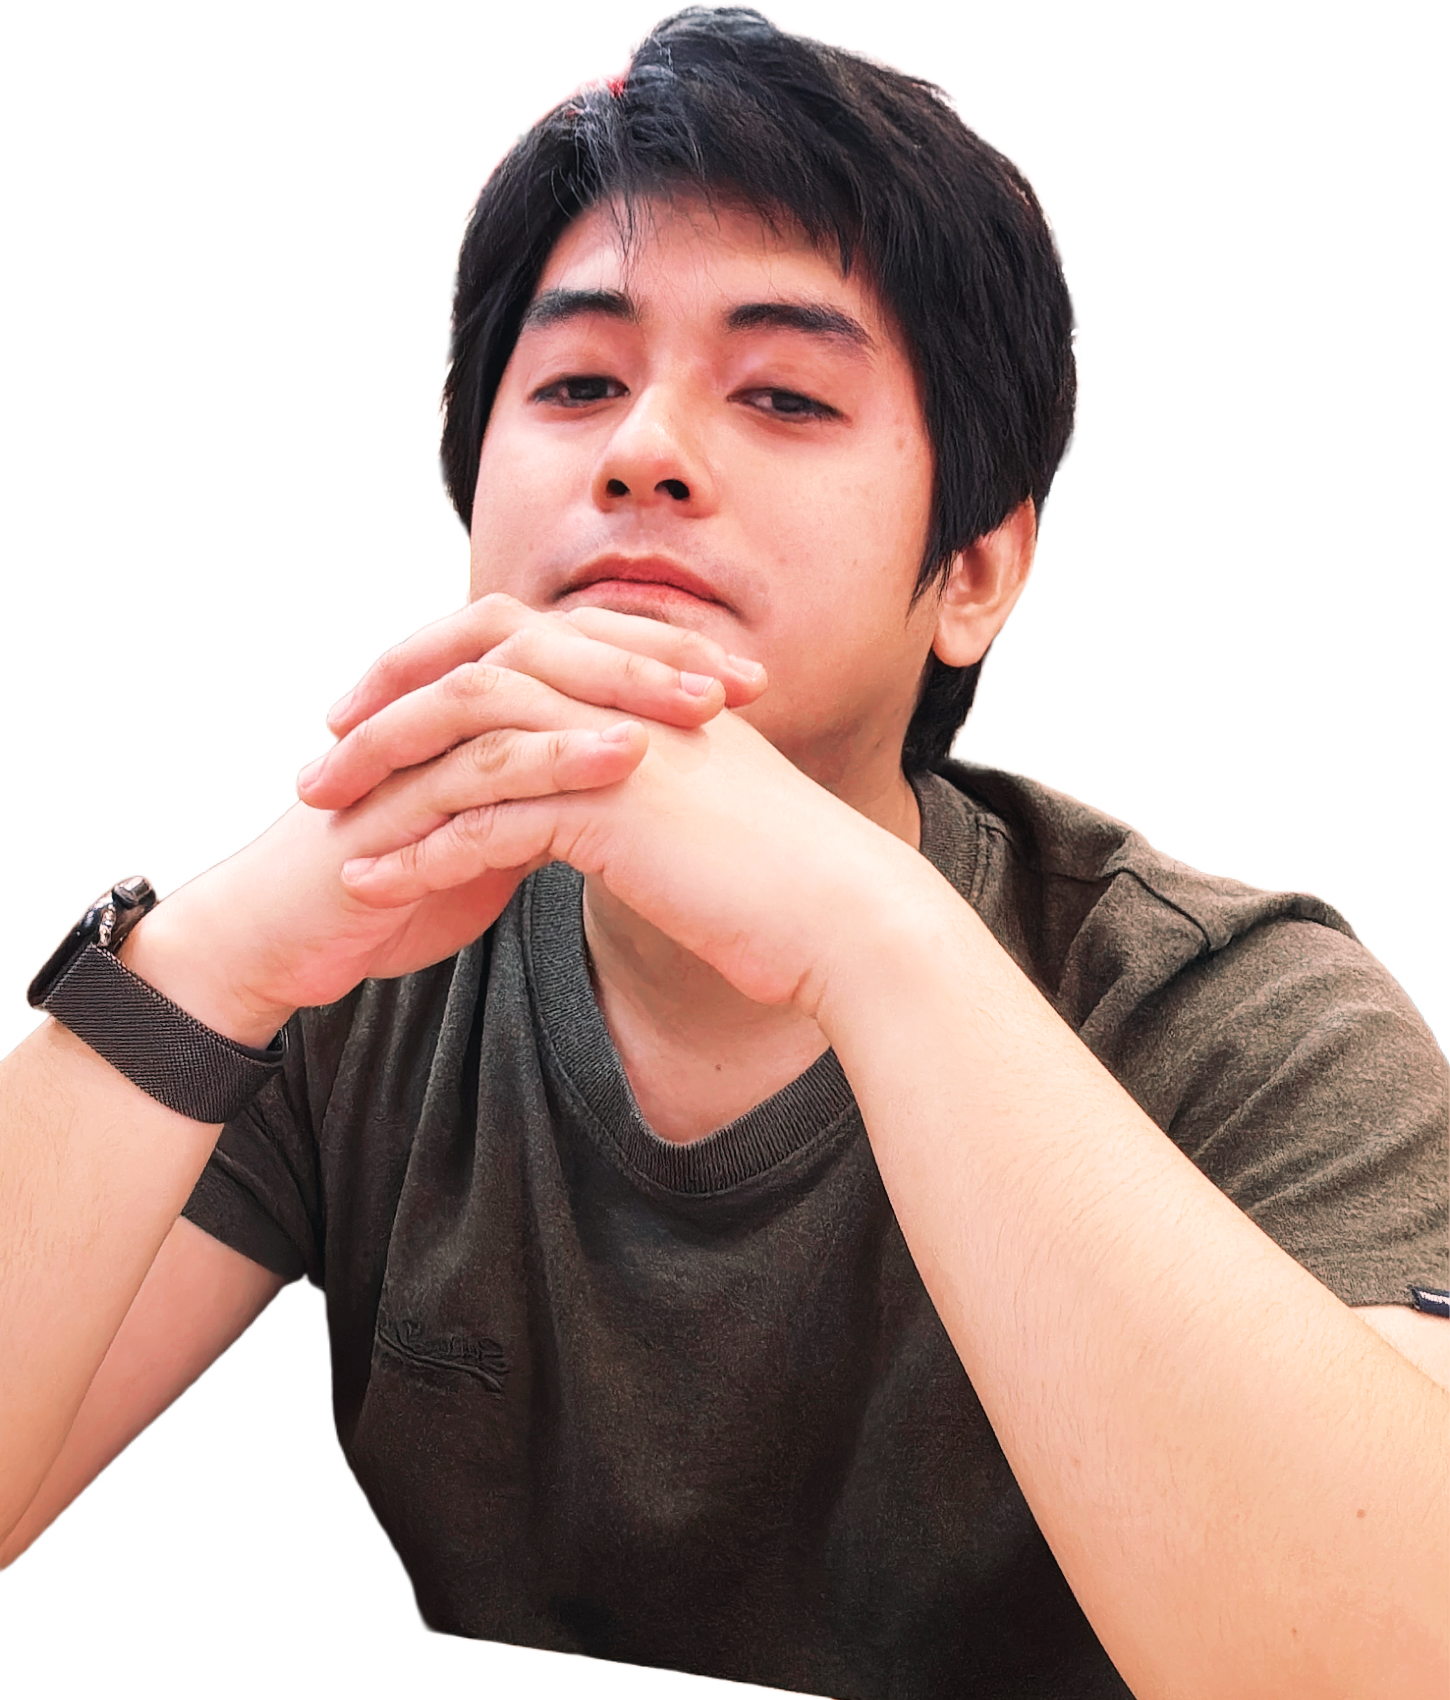
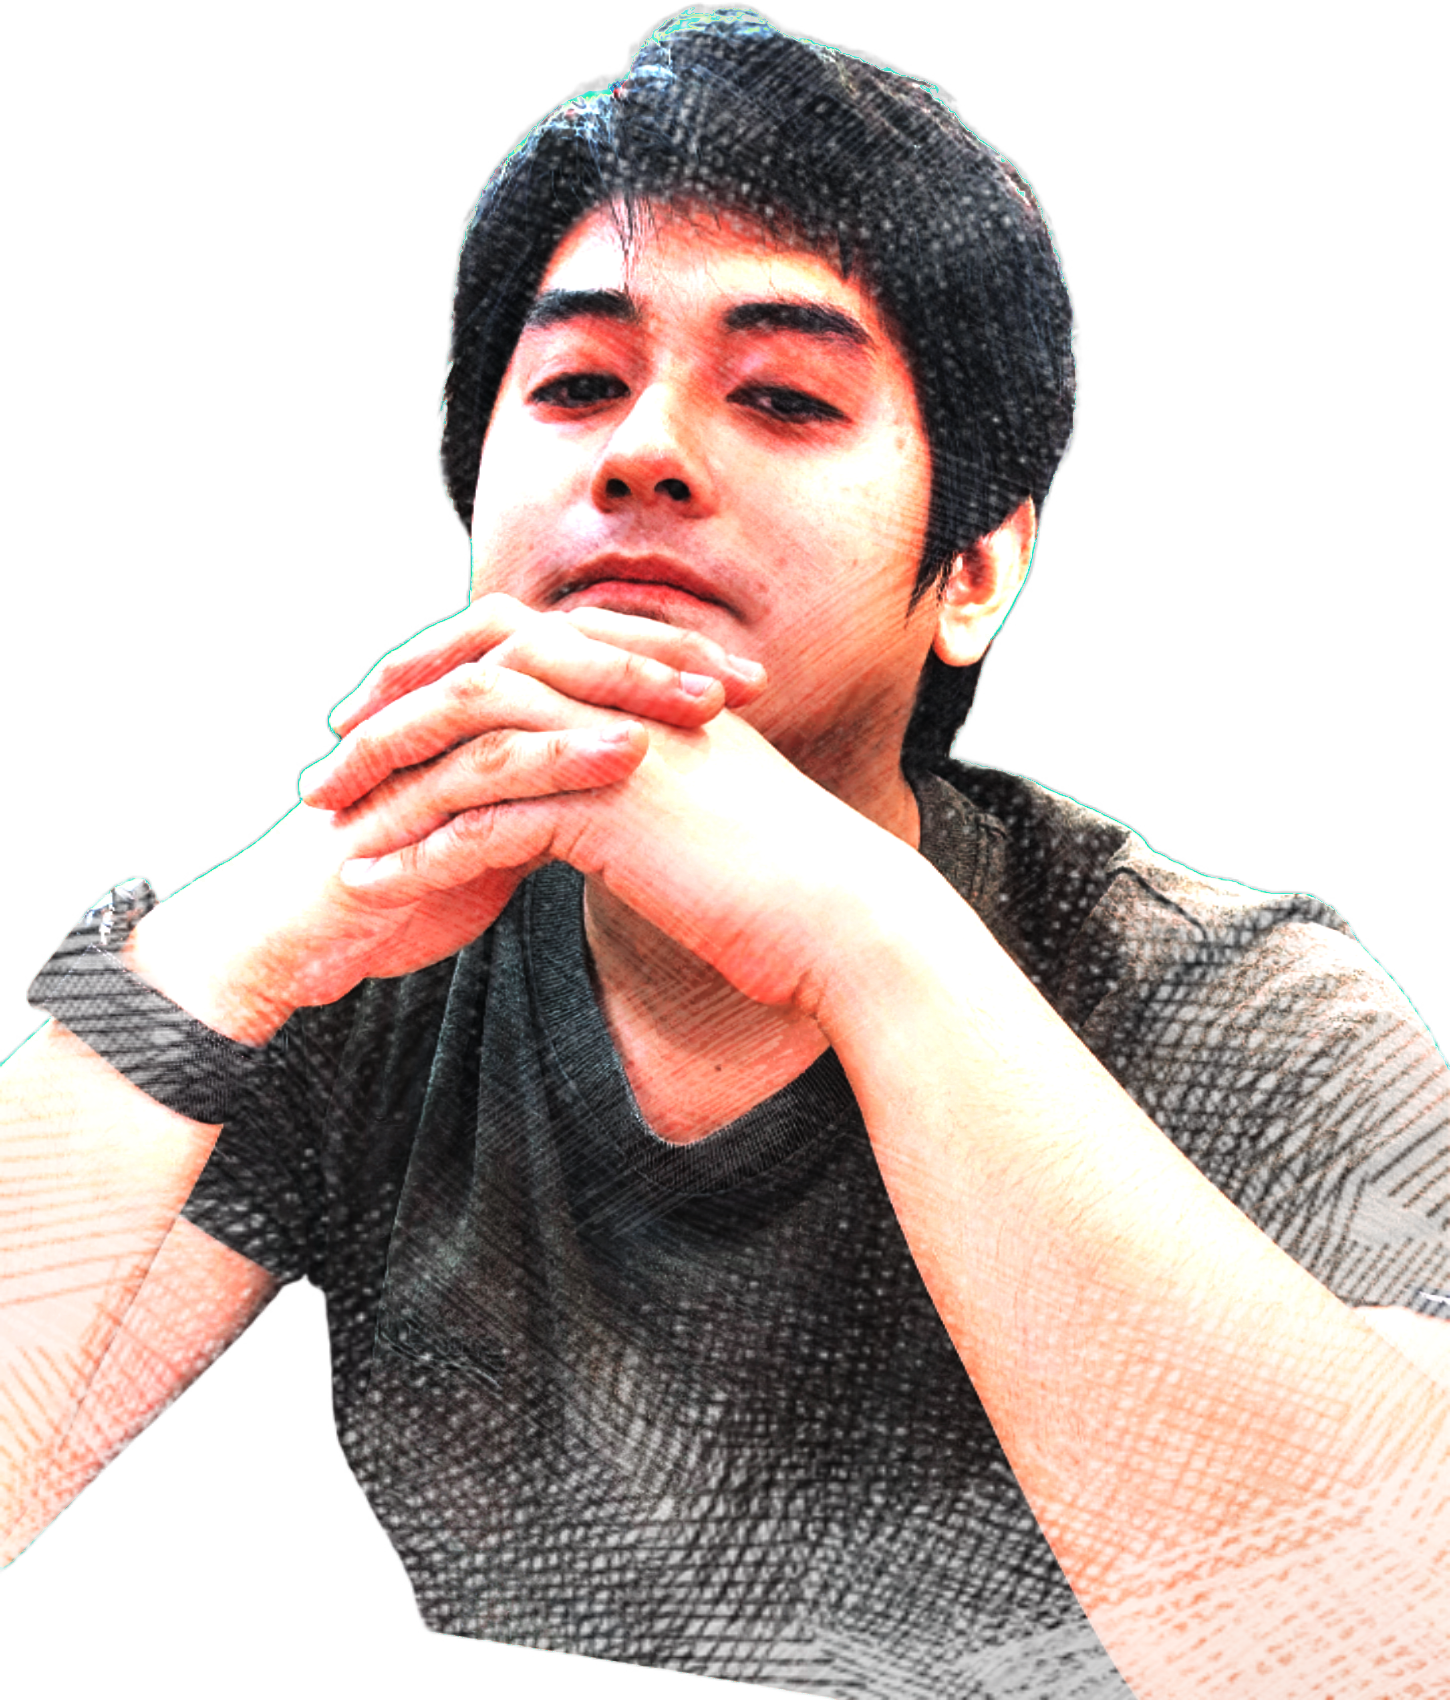
updated animated text duration

diff --git a/src/pages/index.js b/src/pages/index.js
@@ -32,7 +32,7 @@ export default function Home() {
               <Image
                 src={profilePic}
                 alt="eyron"
-                className="h-auto w-4/5 md:w-3/5 md:mb-6 md:mx-16 md:-mt-10"
+                className="h-auto w-4/5 md:w-5/6 md:mb-6 md:mx-6 md:-mt-10 rounded-3xl"
                 sizes="100vw"
                 priority
               />

diff --git a/src/components/AnimatedText.js b/src/components/AnimatedText.js
@@ -23,7 +23,7 @@ const singleWord = {
     opacity: 1,
     y: 0,
     transition: {
-      duration: 1,
+      duration: 2,
     },
   },
 };
